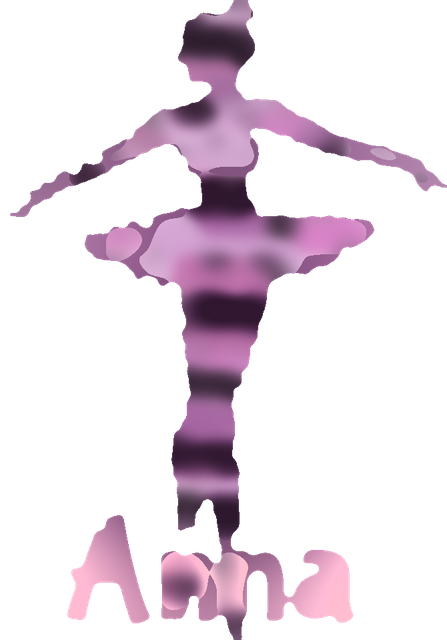
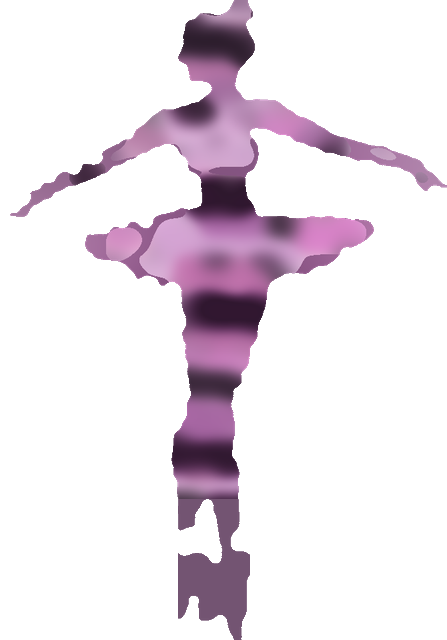
Word art masks v3: erase example name 'Anna' from 10 shapes; font letter for draft Pink Letter D duplicate
Claude-Session: https://claude.ai/code/session_01SLzvNecgTGDfuQoNP1Wbra

Changed region(s): [[0.1454, 0.7812, 0.7852, 1.0]]

diff --git a/foxyprinting-rebrand/tools/word_art_designer/erase_example_name.py b/foxyprinting-rebrand/tools/word_art_designer/erase_example_name.py
@@ -1,0 +1,58 @@
+"""Erase the example name ("Anna") that some traced word art shapes still carry.
+
+Each entry: handle -> list of boxes (x0, y0, x1, y1 as fractions of the mask) and an optional
+keep strip (kx0, kx1) inside the box that belongs to the picture (a leg or a glass stem).
+Leftover specks are removed afterwards. Usage: erase_example_name.py masks_dir out_dir
+"""
+import os, sys
+import numpy as np
+from PIL import Image
+from scipy import ndimage as ndi
+
+BOXES = {
+    'copy-of-personalised-ballet-1-b-word-art-poster-print': [((0.10, 0.78, 0.85, 1.0), (0.40, 0.56))],
+    'copy-of-personalised-beagle-dog-word-art-poster-print': [((0.20, 0.80, 0.78, 1.0), None)],
+    'copy-of-personalised-car-5-word-art-poster-print': [((0.0, 0.0, 0.88, 0.28), None)],
+    'copy-of-personalised-cat-1-word-art-poster-print': [((0.15, 0.18, 0.47, 0.45), None)],
+    'copy-of-personalised-dog-bone-1-word-art-poster-print': [((0.33, 0.58, 0.92, 0.93), None)],
+    'copy-of-personalised-fairy-1-word-art-poster-print': [((0.15, 0.65, 0.41, 0.95), None)],
+    'copy-of-personalised-penguin-1-word-art-poster-print': [((0.14, 0.72, 0.44, 0.90), None)],
+    'copy-of-personalised-rainbow-1-b-word-art-poster-print': [((0.32, 0.70, 0.68, 1.0), None)],
+    'copy-of-personalised-unicorn-1-word-art-poster-print': [((0.38, 0.66, 0.80, 0.86), None)],
+    'copy-of-personalised-unicorn-3-word-art-poster-print': [((0.0, 0.55, 1.0, 0.80), (0.44, 0.56))],
+}
+
+
+def main():
+    src, out = sys.argv[1], sys.argv[2]
+    os.makedirs(out, exist_ok=True)
+    for h, boxes in BOXES.items():
+        im = np.asarray(Image.open(os.path.join(src, h + '.png')).convert('RGBA')).copy()
+        H, W = im.shape[:2]
+        a = im[..., 3] > 128
+        for (x0, y0, x1, y1), keep in boxes:
+            m = np.zeros_like(a)
+            m[int(y0 * H):int(y1 * H), int(x0 * W):int(x1 * W)] = True
+            if keep:
+                m[:, int(keep[0] * W):int(keep[1] * W)] = False
+            a &= ~m
+        lab, n = ndi.label(a)
+        if n:
+            sizes = ndi.sum(a, lab, range(1, n + 1))
+            a = np.isin(lab, 1 + np.where(sizes >= 0.01 * sizes.max())[0])
+        im[..., 3] = np.where(a, im[..., 3], 0)
+        # The kept strip (leg / stem) still carries the name's colour: repaint it with the colour just below the box.
+        for (x0, y0, x1, y1), keep in boxes:
+            if not keep:
+                continue
+            ys, ye, xs, xe = int(y0 * H), int(y1 * H), int(keep[0] * W), int(keep[1] * W)
+            below = im[min(H - 1, ye + int(0.04 * H)):min(H, ye + int(0.12 * H)), xs:xe]
+            sel = below[..., 3] > 128
+            if sel.any():
+                im[ys:ye, xs:xe, :3] = np.median(below[sel][:, :3], axis=0).astype(np.uint8)
+        Image.fromarray(im).save(os.path.join(out, h + '.png'), optimize=True)
+        print(h)
+
+
+if __name__ == '__main__':
+    main()
